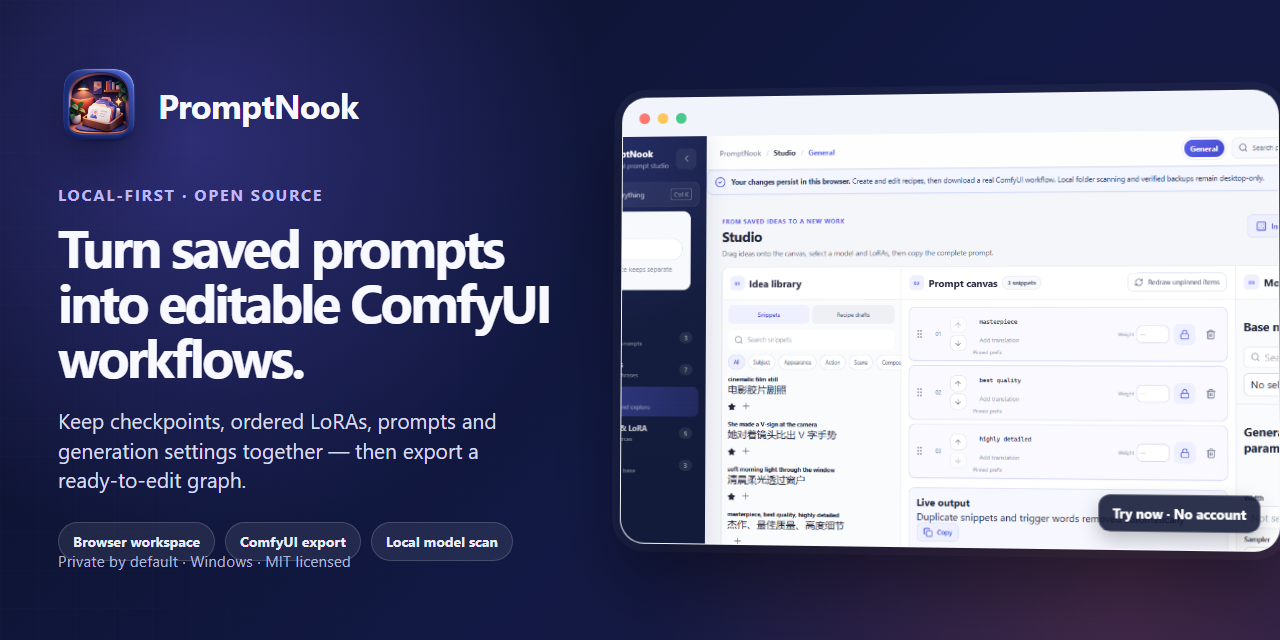
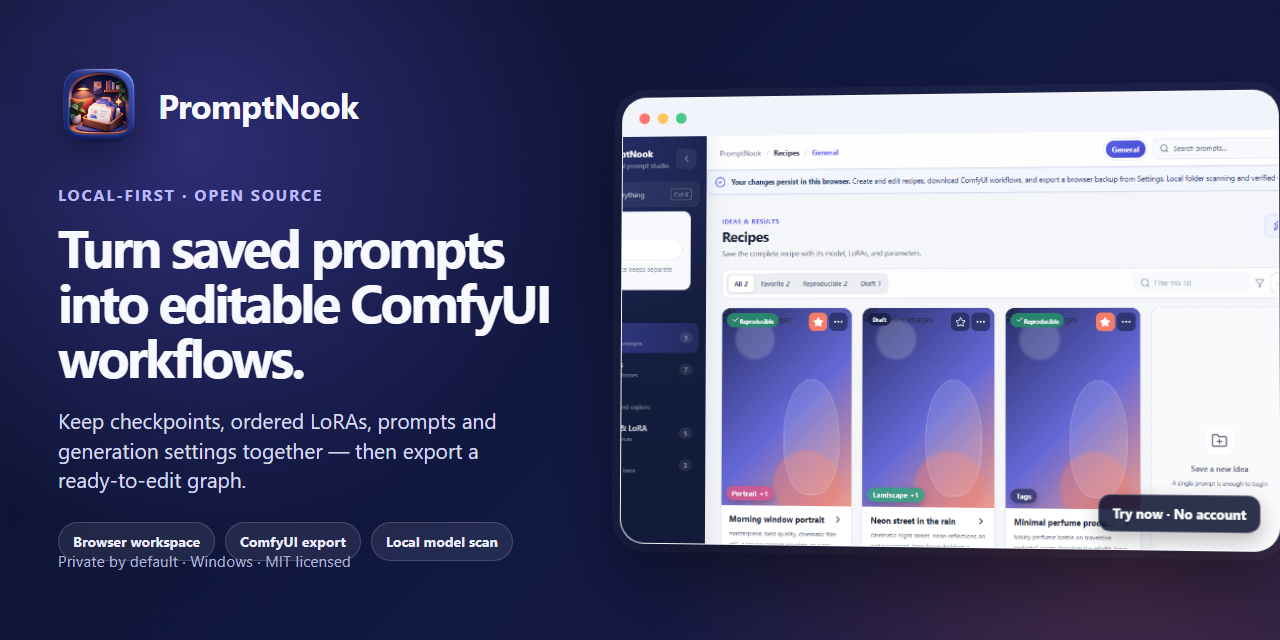
docs: improve project discoverability

diff --git a/index.html b/index.html
@@ -14,10 +14,14 @@
     <meta property="og:description" content="Keep prompts, checkpoints, LoRAs and generation settings together, then export a ready-to-edit ComfyUI graph." />
     <meta property="og:url" content="https://rona1do.github.io/PromptNook/" />
     <meta property="og:image" content="https://raw.githubusercontent.com/Rona1do/PromptNook/main/docs/social-preview.png" />
+    <meta property="og:image:alt" content="PromptNook local-first prompt recipe library and ComfyUI workflow export" />
+    <meta property="og:image:width" content="1280" />
+    <meta property="og:image:height" content="640" />
     <meta name="twitter:card" content="summary_large_image" />
     <meta name="twitter:title" content="PromptNook · From saved prompts to ComfyUI workflows" />
     <meta name="twitter:description" content="A private, local-first prompt workspace with editable ComfyUI workflow export." />
     <meta name="twitter:image" content="https://raw.githubusercontent.com/Rona1do/PromptNook/main/docs/social-preview.png" />
+    <meta name="twitter:image:alt" content="PromptNook local-first prompt recipe library and ComfyUI workflow export" />
     <meta name="theme-color" content="#11152f" />
     <title>PromptNook · Local prompt and ComfyUI workflow manager</title>
     <script type="application/ld+json">
@@ -31,7 +35,9 @@
         "url": "https://rona1do.github.io/PromptNook/",
         "codeRepository": "https://github.com/Rona1do/PromptNook",
         "license": "https://opensource.org/licenses/MIT",
-        "isAccessibleForFree": true
+        "isAccessibleForFree": true,
+        "softwareVersion": "0.2.3-beta.1",
+        "keywords": "ComfyUI, prompt manager, prompt library, LoRA, Stable Diffusion, local-first"
       }
     </script>
   </head>

diff --git a/docs/social-preview.html b/docs/social-preview.html
@@ -183,7 +183,7 @@
 
     <section class="product-shot">
       <div class="window-bar"><span class="dot"></span><span class="dot"></span><span class="dot"></span></div>
-      <img src="screenshots/studio.png" alt="PromptNook Prompt Studio" />
+      <img src="screenshots/recipes.png" alt="PromptNook recipe library" />
       <div class="privacy">Try now · No account</div>
     </section>
   </body>

diff --git a/README.md b/README.md
@@ -1,23 +1,34 @@
 <div align="center">
   <img src="public/promptnook-icon.png" alt="PromptNook icon" width="128" />
   <h1>PromptNook</h1>
-  <p><strong>From scattered prompts to editable ComfyUI workflows.</strong></p>
-  <p>Organize prompt recipes, checkpoints, LoRAs, trigger words, and generation settings in one private, local-first workspace.</p>
+  <p><strong>A local-first recipe library for ComfyUI creators.</strong></p>
+  <p>Keep prompts, checkpoints, ordered LoRAs, trigger words, and generation settings together — then export an editable workflow.</p>
 
   [![CI](https://github.com/Rona1do/PromptNook/actions/workflows/ci.yml/badge.svg)](https://github.com/Rona1do/PromptNook/actions/workflows/ci.yml)
+  [![Preview release](https://img.shields.io/github/v/release/Rona1do/PromptNook?include_prereleases&label=preview)](https://github.com/Rona1do/PromptNook/releases/tag/v0.2.3-beta.1)
   [![License: MIT](https://img.shields.io/badge/License-MIT-5d5fef.svg)](LICENSE)
-  [![Tauri 2](https://img.shields.io/badge/Tauri-2-24C8DB.svg)](https://tauri.app/)
 
-  **[Open the browser workspace](https://rona1do.github.io/PromptNook/)** ·
-  [Releases](https://github.com/Rona1do/PromptNook/releases) ·
+  **[Try the live browser demo →](https://rona1do.github.io/PromptNook/)** ·
+  **[Download the Windows preview](https://github.com/Rona1do/PromptNook/releases/tag/v0.2.3-beta.1)** ·
   [ComfyUI export details](docs/COMFYUI_EXPORT.md)
 </div>
 
-> **Try the complete browser workflow now.** Changes are saved in your browser, never uploaded, and checkpoint-based recipes can be downloaded as real ComfyUI Workflow JSON 0.4 files. The browser workspace can be backed up and restored with a validated JSON file; folder scanning and verified desktop snapshots remain desktop-only.
+> Built for people whose successful generations are scattered across text files, PNG metadata, model folders, and memory. PromptNook is a standalone library and workflow companion—not a prompt generator, image generator, or ComfyUI custom node.
 
 ![PromptNook to ComfyUI workflow demo](docs/promptnook-comfyui-demo.gif)
 
 [简体中文](README.zh-CN.md)
+
+## Choose how to try it
+
+| | Browser workspace | Windows desktop |
+| --- | --- | --- |
+| Best for | Trying the complete recipe-to-workflow flow | Managing a real local model library |
+| Setup | No account or installation | Download the clearly marked unsigned preview |
+| Included | Persistent recipes, snippets, Studio, JSON backup, ComfyUI export | Everything in the browser workspace, plus folder scanning, SQLite, credential protection, and verified portable backups |
+| Data | Stays in this browser | Stays on your computer |
+
+The browser workspace is not a static mockup. You can edit the starter recipes, download a real ComfyUI Workflow JSON 0.4 file, close the tab, and return to your saved work later.
 
 ## Try it in 60 seconds
 
@@ -33,6 +44,13 @@ Successful generations are more than prompt text. They also depend on the checkp
 
 Unlike a cloud prompt gallery, PromptNook requires no PromptNook account and does not upload your library. Unlike a plain text file, it preserves the resources and settings needed to reproduce a result.
 
+### What makes it different
+
+- **Recipes, not isolated prompt text** — keep the positive and negative prompts, checkpoint, ordered LoRAs, seed, sampler, scheduler, dimensions, CFG, notes, and revision history together.
+- **Use the model files you already have** — the Windows app scans configured folders and records availability instead of making you rebuild a catalog by hand.
+- **Leave with a workflow** — export a core-node ComfyUI graph that is ready to inspect and edit, rather than copying fields one at a time.
+- **Private by default** — no PromptNook account, analytics, hosted library, or automatic prompt upload.
+
 ## Highlights
 
 - **Working browser workspace** — create and edit recipes and snippets with browser-local persistence, then download checkpoint-based ComfyUI workflows without installing PromptNook.
@@ -47,15 +65,12 @@ Unlike a cloud prompt gallery, PromptNook requires no PromptNook account and doe
 
 ## Screenshots
 
-<details>
-  <summary>Prompt library, Studio, and local model catalog</summary>
+<p align="center">
+  <img src="docs/screenshots/recipes.png" alt="PromptNook recipe library" width="49%" />
+  <img src="docs/screenshots/models-and-loras.png" alt="PromptNook local model and LoRA catalog" width="49%" />
+</p>
 
-  ![Prompt recipe library](docs/screenshots/recipes.png)
-
-  ![Prompt Studio](docs/screenshots/studio.png)
-
-  ![Local model and LoRA catalog](docs/screenshots/models-and-loras.png)
-</details>
+![PromptNook Prompt Studio](docs/screenshots/studio.png)
 
 The screenshots use repository sample data. They do not contain a maintainer's private library or filesystem paths.
 
@@ -63,17 +78,17 @@ The screenshots use repository sample data. They do not contain a maintainer's p
 
 English is the repository and interface language so contributors can collaborate globally. Simplified Chinese documentation remains available because it is useful, not because prompt content is tied to Chinese. Prompt content and translation targets are language-agnostic: users can enter any target supported by their configured translation provider.
 
-The original private prototype's primary Chinese-only interface has been migrated for v0.2. A resource-based Simplified Chinese UI locale and localized low-level diagnostics remain on the roadmap; the project will not claim generic “all-language UI” support before each locale is complete and reviewable.
+The current interface and starter workspace are English. Prompt content can use any language. A complete Simplified Chinese UI locale and localized low-level diagnostics remain on the roadmap; **Prompt translation** translates prompt content and does not change the interface language.
 
 ## ComfyUI export
 
 Open an existing recipe in the browser workspace or Windows desktop app and choose **Export ComfyUI workflow**. PromptNook writes an editable ComfyUI Workflow JSON 0.4 file and reports any offline or unresolved model references. The current graph uses ComfyUI core nodes and supports checkpoint-based text-to-image recipes; FLUX/diffusion-model graphs are deliberately deferred to a dedicated template. See [the export design and compatibility notes](docs/COMFYUI_EXPORT.md).
 
-## Platform status
+## Platform and release status
 
 The desktop app is currently developed and tested on **Windows 10/11**. The stack is cross-platform, but macOS and Linux packaging is not yet verified. Do not present those platforms as supported until their release workflows are tested.
 
-The current Windows prerelease includes an installer whose asset name and release notes explicitly mark it **UNSIGNED**. It may trigger Windows reputation or publisher warnings. A formally signed stable release still depends on an approved trusted code-signing workflow. Source releases remain available for review and local builds; see the [code signing policy](docs/CODE_SIGNING.md).
+The current Windows prerelease includes an installer whose asset name and release notes explicitly mark it **UNSIGNED**. It may trigger Windows reputation or publisher warnings. Review the release notes and checksum; do not disable Windows security protections. A formally signed stable release still depends on a trusted code-signing workflow. Source releases remain available for review and local builds; see the [code signing policy](docs/CODE_SIGNING.md).
 
 ## Quick start
 
@@ -117,9 +132,11 @@ On Windows, PromptNook stores its desktop data under `%LOCALAPPDATA%\PromptNook\
 
 ## Contributing
 
-Start with [CONTRIBUTING.md](CONTRIBUTING.md), the [roadmap](ROADMAP.md), and issues labeled `good first issue`. By participating, you agree to follow the [Code of Conduct](CODE_OF_CONDUCT.md). Security issues should be reported privately using [SECURITY.md](SECURITY.md).
+Start with [CONTRIBUTING.md](CONTRIBUTING.md), the [roadmap](ROADMAP.md), and issues labeled [`help wanted`](https://github.com/Rona1do/PromptNook/issues?q=is%3Aissue%20state%3Aopen%20label%3A%22help%20wanted%22). By participating, you agree to follow the [Code of Conduct](CODE_OF_CONDUCT.md). Security issues should be reported privately using [SECURITY.md](SECURITY.md).
 
 Questions, workflow ideas, and early feedback are welcome in [GitHub Discussions](https://github.com/Rona1do/PromptNook/discussions). Please use [Issues](https://github.com/Rona1do/PromptNook/issues) for reproducible bugs and scoped feature requests.
+
+If PromptNook solves a workflow problem for you, a GitHub star helps other ComfyUI users discover it.
 
 ## License
 

diff --git a/README.zh-CN.md b/README.zh-CN.md
@@ -1,19 +1,30 @@
 <div align="center">
   <img src="public/promptnook-icon.png" alt="PromptNook 图标" width="128" />
   <h1>PromptNook</h1>
-  <p><strong>把散落的 Prompt 变成可编辑的 ComfyUI 工作流。</strong></p>
-  <p>在一个私密、本地优先的工作区中管理 Prompt 配方、模型、LoRA、触发词和生成参数。</p>
+  <p><strong>为 ComfyUI 创作者设计的本地优先配方库。</strong></p>
+  <p>把 Prompt、checkpoint、按顺序加载的 LoRA、触发词和生成参数放在一起，再导出可编辑工作流。</p>
 
-  **[立即打开浏览器工作区](https://rona1do.github.io/PromptNook/)** ·
-  [版本列表](https://github.com/Rona1do/PromptNook/releases) ·
+  **[立即体验浏览器 Demo →](https://rona1do.github.io/PromptNook/)** ·
+  **[下载 Windows 预览版](https://github.com/Rona1do/PromptNook/releases/tag/v0.2.3-beta.1)** ·
   [ComfyUI 导出说明](docs/COMFYUI_EXPORT.md)
 </div>
 
 [English](README.md)
 
-> **现在就可以完成一次真实流程。** 浏览器工作区会把修改保存在当前浏览器中，不上传数据，并能直接下载真正的 ComfyUI Workflow JSON 0.4。浏览器工作区支持导出和校验恢复 JSON 备份；扫描本地文件夹与桌面端完整性快照仍属于桌面版功能。
+> 如果你成功出图所需的信息散落在文本文件、PNG 元数据、模型目录和记忆里，PromptNook 就是为这个问题设计的。它是独立的资料库和工作流伴侣，不是 Prompt 生成器、出图工具或 ComfyUI 自定义节点。
 
 ![PromptNook 导出到 ComfyUI 的演示](docs/promptnook-comfyui-demo.gif)
+
+## 选择体验方式
+
+| | 浏览器工作区 | Windows 桌面版 |
+| --- | --- | --- |
+| 适合 | 体验从配方到工作流的完整流程 | 管理真实的本地模型资料库 |
+| 开始方式 | 无需安装或注册 | 下载明确标注为 unsigned 的预览版 |
+| 功能 | 持久化配方、片段、Studio、JSON 备份、ComfyUI 导出 | 浏览器版全部功能，以及目录扫描、SQLite、凭据保护和可迁移校验备份 |
+| 数据位置 | 保存在当前浏览器 | 保存在你的电脑 |
+
+浏览器版不是静态样品。你可以编辑 starter recipes、下载真实的 ComfyUI Workflow JSON 0.4，关闭页面后再回来继续。
 
 ## 60 秒上手
 
@@ -44,21 +55,18 @@ PromptNook 不要求注册云端账号，也不会上传你的资料库；相比
 
 ## 界面截图
 
-<details>
-  <summary>Prompt 资料库、创作台与本地模型目录</summary>
+<p align="center">
+  <img src="docs/screenshots/recipes.png" alt="PromptNook Prompt 配方库" width="49%" />
+  <img src="docs/screenshots/models-and-loras.png" alt="PromptNook 本地模型与 LoRA 目录" width="49%" />
+</p>
 
-  ![Prompt 成品库](docs/screenshots/recipes.png)
-
-  ![Prompt 创作台](docs/screenshots/studio.png)
-
-  ![本地模型与 LoRA 目录](docs/screenshots/models-and-loras.png)
-</details>
+![PromptNook Prompt Studio](docs/screenshots/studio.png)
 
 截图使用仓库自带的示例数据，不包含维护者的私人资料库或个人文件路径。
 
 ## 语言策略
 
-仓库和软件主要界面以英文为主，并保留完整中文说明。Prompt 内容和翻译目标本身不限制语言；v0.2 已迁移私人原型遗留的主要中文界面文案，少量底层 Rust 诊断信息仍列在后续本地化计划中。完整的简体中文 UI 仍需先迁入可审阅的本地化资源后再提供，不会在此之前笼统宣称“支持所有界面语言”。具体见 [ROADMAP.md](ROADMAP.md)。
+当前界面和 starter workspace 为英文，Prompt 内容可以使用任意语言。完整的简体中文 UI 和底层诊断信息本地化仍在路线图中；**Prompt translation** 只翻译 Prompt 内容，不会切换界面语言。具体见 [ROADMAP.md](ROADMAP.md)。
 
 ## ComfyUI 导出
 
@@ -106,6 +114,8 @@ cargo test --manifest-path src-tauri/Cargo.toml
 请阅读 [CONTRIBUTING.md](CONTRIBUTING.md)、[ROADMAP.md](ROADMAP.md)、[CODE_OF_CONDUCT.md](CODE_OF_CONDUCT.md) 和 [SECURITY.md](SECURITY.md)。
 
 使用场景、工作流想法和早期反馈欢迎发布到 [GitHub Discussions](https://github.com/Rona1do/PromptNook/discussions)；可复现的问题和范围明确的功能建议请提交到 [Issues](https://github.com/Rona1do/PromptNook/issues)。
+
+如果 PromptNook 解决了你的实际工作流问题，欢迎点一个 GitHub Star，帮助其他 ComfyUI 用户发现它。
 
 ## 许可证
 

diff --git a/docs/RELEASING.md b/docs/RELEASING.md
@@ -13,7 +13,7 @@
 
 ## Prereleases
 
-Until trusted Windows signing is approved, maintainers may publish source-only prereleases or attach clearly labelled unsigned preview installers. The `0.2.2-beta.1` release uses the latter path. Include `UNSIGNED` in the installer asset name, provide SHA-256 checksums, disclose the signature status in release notes, link to the browser workspace, and list known compatibility boundaries. Do not ask users to disable antivirus or other security protections. The manual Windows preview workflow produces an installer and checksum artifact without automatically publishing it.
+Until trusted Windows signing is approved, maintainers may publish source-only prereleases or attach clearly labelled unsigned preview installers. Current `0.2.x` prereleases use the latter path. Include `UNSIGNED` in the installer asset name, provide SHA-256 checksums, disclose the signature status in release notes, link to the browser workspace, and list known compatibility boundaries. Do not ask users to disable antivirus or other security protections. The manual Windows preview workflow produces an installer and checksum artifact without automatically publishing it.
 
 ## Release notes
 

diff --git a/docs/ARCHITECTURE.md b/docs/ARCHITECTURE.md
@@ -6,7 +6,7 @@ PromptNook is a Tauri 2 desktop application with a React/TypeScript interface an
 
 ```text
 React UI
-  ├─ browser fallback (volatile sample data)
+  ├─ browser workspace (browser-local persistence and versioned JSON backup)
   └─ typed Tauri commands
        ├─ repository and search
        ├─ SQLite migrations and recovery mode
@@ -24,7 +24,7 @@ React UI
 - `src/lib/promptModels.ts` normalizes arbitrary workspace IDs and supplies only a neutral `General` default.
 - `src/types.ts` defines the shared frontend data contracts.
 
-The browser fallback is a demo and test harness. It must not imply persistence or silently hide a failing Tauri command.
+The browser workspace is both a usable demo and a test harness. It persists structured data in the current browser profile, preserves unsupported stored versions instead of overwriting them, and must never silently hide a failing Tauri command.
 
 ## Desktop backend
 

diff --git a/CONTRIBUTING.md b/CONTRIBUTING.md
@@ -33,7 +33,7 @@ cargo test --manifest-path src-tauri/Cargo.toml
 - Model and workspace names must remain user-configurable.
 - Avoid content-specific presets in the default dataset.
 - Preserve user data and provide a migration path for schema changes.
-- Keep the browser fallback deterministic and clearly labeled as volatile.
+- Keep the browser workspace deterministic, backward-compatible, and explicit about browser-local persistence and backup limits.
 - User-facing strings should move through the localization layer once the i18n milestone is merged.
 
 ## Commit and pull request style

diff --git a/ROADMAP.md b/ROADMAP.md
@@ -9,7 +9,8 @@ This roadmap communicates direction, not a delivery guarantee. Issues and pull r
 - [x] Remove content-specific and adult-oriented default presets.
 - [x] Make translation targets configurable.
 - [x] Add tests, CI, security policy, contribution guide, and bilingual documentation.
-- [ ] Publish the first signed Windows installer and checksums.
+- [x] Publish an explicitly labeled unsigned Windows preview installer and checksums.
+- [ ] Establish a trusted code-signing process for a formally signed Windows release.
 
 ## 0.2 — ComfyUI export and international usability
 

diff --git a/OPEN_SOURCE_CHECKLIST.md b/OPEN_SOURCE_CHECKLIST.md
@@ -21,7 +21,7 @@ This is a reusable verification checklist, not a statement of current release st
 - [ ] Smoke-test install, launch, backup, restore, export, import, upgrade, and uninstall.
 - [ ] Verify installer publisher/signing status and document any unsigned-build warning.
 - [ ] Publish SHA-256 checksums.
-- [x] Mark the release as preview while interface localization and platform verification remain incomplete.
+- [x] Mark the release as preview while trusted signing and broader platform verification remain incomplete.
 
 ## After launch
 

diff --git a/CHANGELOG.md b/CHANGELOG.md
@@ -4,6 +4,11 @@ All notable changes will be documented here. The format follows Keep a Changelog
 
 ## [Unreleased]
 
+### Changed
+
+- Refined the repository landing page, public social preview, search metadata, and browser-demo discovery metadata around PromptNook's concrete ComfyUI recipe-to-workflow use case.
+- Made the browser-versus-desktop feature boundary and current unsigned Windows preview easier to understand before download.
+
 ## [0.2.3-beta.1] - 2026-09-19
 
 ### Added
